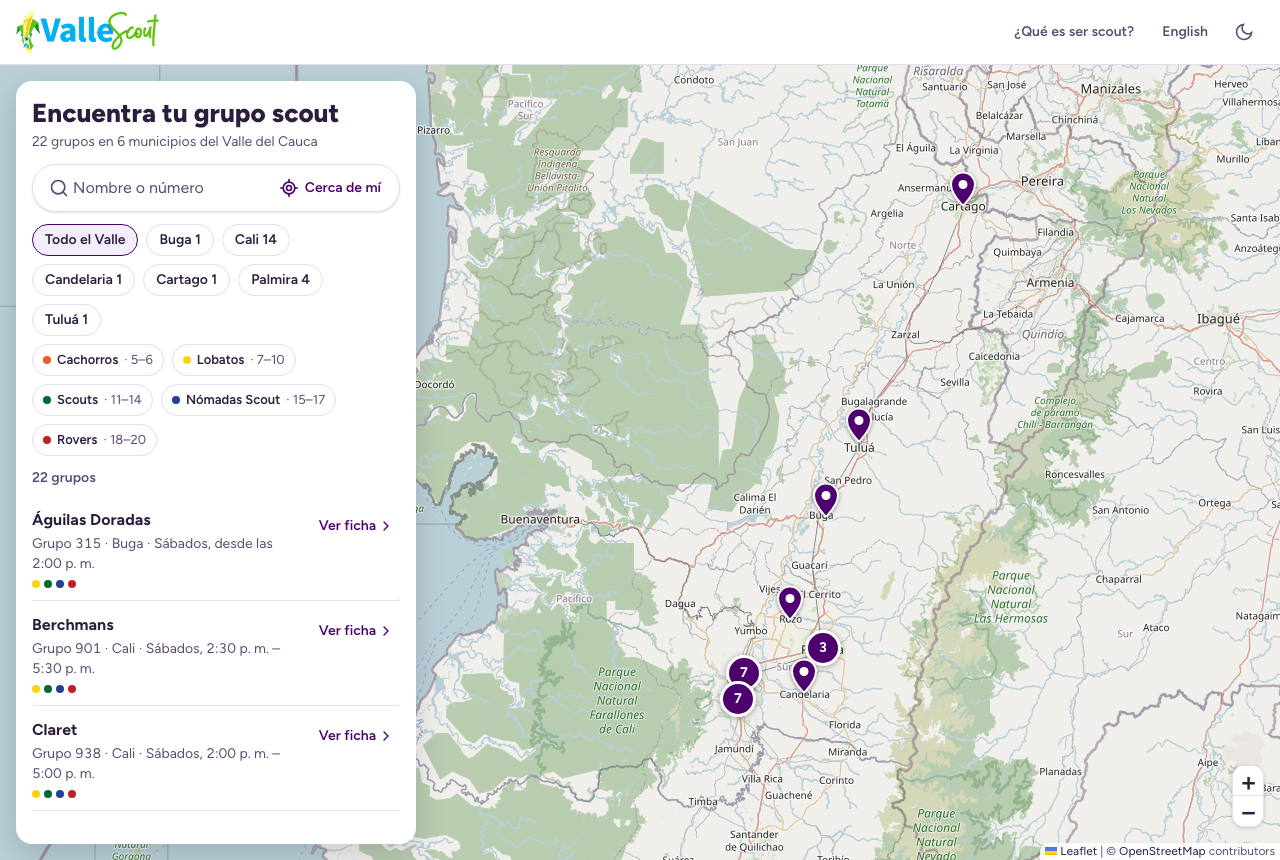
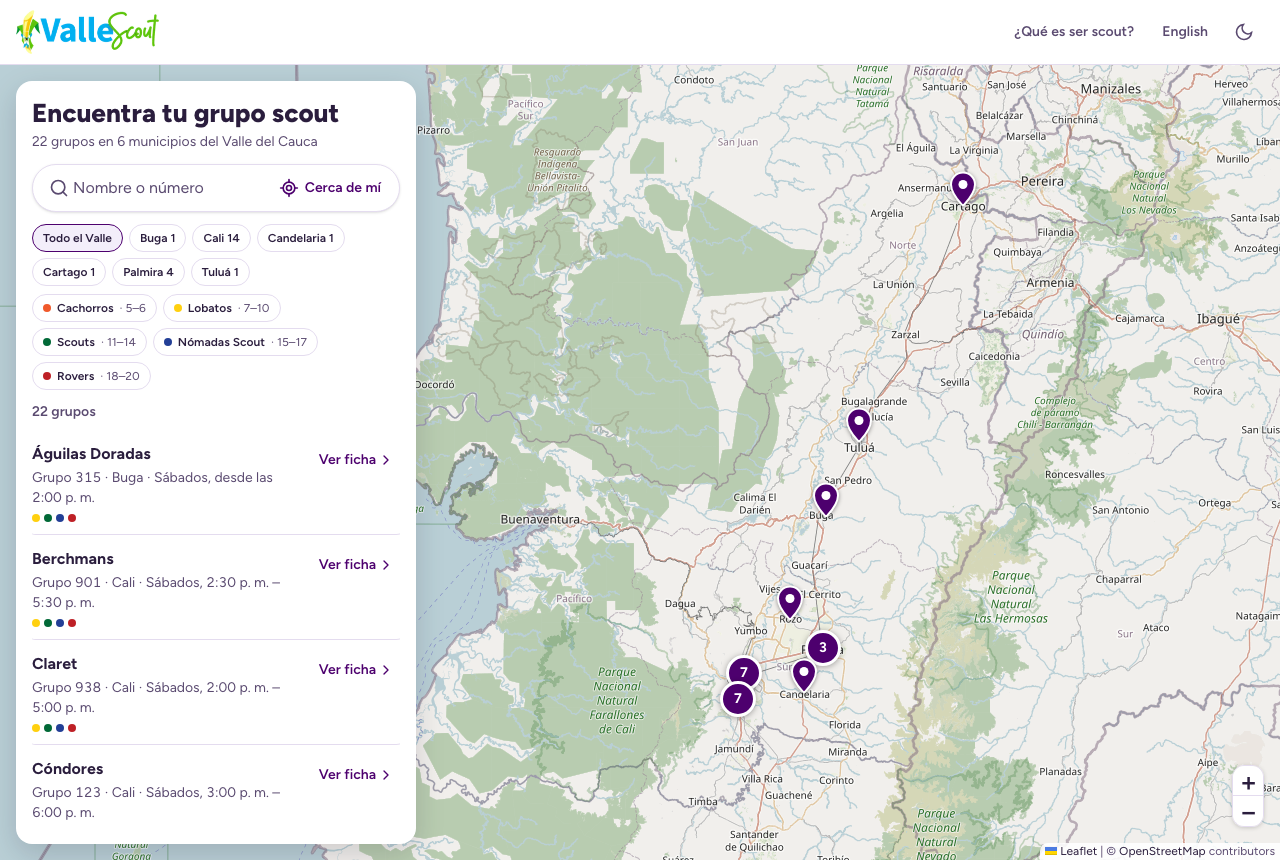
fix(finder): compact desktop chips, open selection at half height; retake screenshots

diff --git a/src/components/finder/FilterChips.tsx b/src/components/finder/FilterChips.tsx
@@ -19,7 +19,7 @@ interface Props {
 }
 
 const chip =
-  "inline-flex h-8 shrink-0 items-center gap-1.5 rounded-full border border-line bg-surface px-3 text-sm font-semibold whitespace-nowrap hover:border-brand/60 aria-pressed:border-brand aria-pressed:bg-brand-soft";
+  "inline-flex h-8 shrink-0 items-center gap-1.5 rounded-full lg:h-7 lg:px-2.5 lg:text-xs border border-line bg-surface px-3 text-sm font-semibold whitespace-nowrap hover:border-brand/60 aria-pressed:border-brand aria-pressed:bg-brand-soft";
 
 export default function FilterChips({ lang, t, filters, municipios, onChange }: Props) {
   const toggleRama = (id: RamaId) =>
@@ -34,7 +34,7 @@ export default function FilterChips({ lang, t, filters, municipios, onChange }: 
     <div class="grid gap-2" aria-label={t("finder.filters")} role="group">
       {/* Municipio: selección única; la fila hace scroll horizontal si no cabe. */}
       <div
-        class="-mx-4 -my-1.5 flex gap-2 overflow-x-auto px-4 py-1.5 [scrollbar-width:none] lg:mx-0 lg:flex-wrap lg:overflow-visible lg:px-0"
+        class="-mx-4 -my-1.5 flex gap-2 lg:gap-1.5 overflow-x-auto px-4 py-1.5 [scrollbar-width:none] lg:mx-0 lg:flex-wrap lg:overflow-visible lg:px-0"
         role="group"
         aria-label={t("finder.municipio")}
       >
@@ -62,7 +62,7 @@ export default function FilterChips({ lang, t, filters, municipios, onChange }: 
       </div>
       {/* Ramas: multiselección; el color oficial va solo en el punto. */}
       <div
-        class="-mx-4 -my-1.5 flex gap-2 overflow-x-auto px-4 py-1.5 [scrollbar-width:none] lg:mx-0 lg:flex-wrap lg:overflow-visible lg:px-0"
+        class="-mx-4 -my-1.5 flex gap-2 lg:gap-1.5 overflow-x-auto px-4 py-1.5 [scrollbar-width:none] lg:mx-0 lg:flex-wrap lg:overflow-visible lg:px-0"
         role="group"
         aria-label={t("finder.ramas")}
       >
@@ -76,7 +76,7 @@ export default function FilterChips({ lang, t, filters, municipios, onChange }: 
               data-rama={id}
               aria-pressed={pressed}
               onClick={() => toggleRama(id)}
-              class="rama-chip h-8 shrink-0 whitespace-nowrap hover:border-brand/60 aria-pressed:border-brand aria-pressed:bg-brand-soft"
+              class="rama-chip h-8 shrink-0 lg:h-7 lg:px-2.5 lg:text-xs whitespace-nowrap hover:border-brand/60 aria-pressed:border-brand aria-pressed:bg-brand-soft"
             >
               {pressed && <Icon name="check" class="-mx-0.5 size-4 text-brand" />}
               {ramaLabel(id, lang)}

diff --git a/src/components/finder/GroupMap.tsx b/src/components/finder/GroupMap.tsx
@@ -36,6 +36,8 @@ interface Props {
   lang: Lang;
   t: Translate;
   fitPadding: FitPadding;
+  /** Móvil: alto de relleno inferior con la tarjeta abierta (hoja a media altura); sustituye al de fitPadding al enfocar. */
+  focusBottomPad?: number;
   /** Escritorio: popups de Leaflet. Móvil: la ficha se muestra en la hoja (sin popups). */
   popups: boolean;
   focusRequest: FocusRequest | null;
@@ -53,6 +55,7 @@ export default function GroupMap({
   lang,
   t,
   fitPadding,
+  focusBottomPad,
   popups,
   focusRequest,
   onSelect,
@@ -77,6 +80,8 @@ export default function GroupMap({
   onPopupCloseRef.current = onPopupClose;
   const fitPaddingRef = useRef(fitPadding);
   fitPaddingRef.current = fitPadding;
+  const focusBottomPadRef = useRef(focusBottomPad);
+  focusBottomPadRef.current = focusBottomPad;
   const [ready, setReady] = useState(false);
   const [failed, setFailed] = useState(false);
   const [tilesFailed, setTilesFailed] = useState(false);
@@ -256,7 +261,9 @@ export default function GroupMap({
     group.zoomToShowLayer(marker, () => {
       const zoom = Math.max(m.getZoom(), 15);
       // Sin popup, el centro baja medio padding inferior para que el pin quede sobre la hoja.
-      const off = Math.round(fitPaddingRef.current.bottomRight[1] / 2);
+      const off = Math.round(
+        (focusBottomPadRef.current ?? fitPaddingRef.current.bottomRight[1]) / 2,
+      );
       const target = popups
         ? marker.getLatLng()
         : m.unproject(m.project(marker.getLatLng(), zoom).add([0, off]), zoom);

diff --git a/src/components/finder/Finder.tsx b/src/components/finder/Finder.tsx
@@ -6,7 +6,7 @@ import SelectedCard from "@/components/finder/SelectedCard";
 import Sheet, { type Snap } from "@/components/finder/Sheet";
 import GroupMap, { type FitPadding, type FocusRequest } from "@/components/finder/GroupMap";
 import SearchBar, { type GeoStatus } from "@/components/finder/SearchBar";
-import { SNAP_OFFSET } from "@/components/finder/useSheet";
+import { HALF, PEEK, SNAP_OFFSET } from "@/components/finder/useSheet";
 import { useMediaQuery } from "@/components/finder/useMediaQuery";
 import { VALLE_BOUNDS } from "@/data/region";
 import type { Grupo } from "@/data/schema";
@@ -67,7 +67,7 @@ export default function Finder({ grupos, lang, municipios }: Props) {
     if (!isDesktop) {
       focusedId.current = id;
       setSelectedId(id);
-      setSnap("peek");
+      setSnap("half");
     }
   };
 
@@ -78,7 +78,7 @@ export default function Finder({ grupos, lang, municipios }: Props) {
       // Sin popup que lo retenga, el resaltado se conserva aunque la tarjeta pierda hover/foco.
       focusedId.current = id;
       setSelectedId(id);
-      setSnap("peek");
+      setSnap("half");
     }
     setFocusRequest((prev) => ({ id, nonce: (prev?.nonce ?? 0) + 1 }));
   };
@@ -223,6 +223,7 @@ export default function Finder({ grupos, lang, municipios }: Props) {
           lang={lang}
           t={t}
           fitPadding={fitPadding}
+          focusBottomPad={Math.round((peekPx / PEEK) * HALF) + 16}
           popups={isDesktop}
           focusRequest={focusRequest}
           onSelect={selectFromMap}

diff --git a/tests/e2e/map.spec.ts b/tests/e2e/map.spec.ts
@@ -207,7 +207,7 @@ test.describe("mapa del buscador", () => {
       "href",
       "/grupos/315-aguilas-doradas/",
     );
-    await expect(ui(page)).toHaveAttribute("data-snap", "peek");
+    await expect(ui(page)).toHaveAttribute("data-snap", "half");
     await expect(card.getByRole("link", { name: "Ver ficha" })).toBeInViewport();
     await expect(page).not.toHaveURL(/\/grupos\//);
     await ui(page).getByRole("button", { name: "Volver a la lista" }).click();

diff --git a/docs/superpowers/specs/2026-10-07-mapa-pantalla-completa-design.md b/docs/superpowers/specs/2026-10-07-mapa-pantalla-completa-design.md
@@ -90,8 +90,8 @@ Cambios de datos, nuevas páginas, analítica, y rediseño profundo de "¿Qué e
   - La hoja es `role="region"` con `aria-label` "Resultados". El contenido existe en el DOM en todas las posiciones.
   - Con `prefers-reduced-motion`, no hay animación de arrastre: salta a la posición.
 - **Búsqueda:** píldora flotante arriba del mapa (margen 12 px) con la lupa y el botón "Cerca de mí" (solo icono, con `aria-label`). Al enfocar el campo, la hoja sube a **completa** para ver los resultados mientras se escribe; al limpiar y desenfocar vuelve a **media**.
-- **Tocar un pin:** la hoja pasa a **asomada** y muestra, en lugar de la lista, la **tarjeta del grupo** (el mismo contenido del popup, con una X para volver a la lista). El mapa centra ese pin. No se usan popups de Leaflet en móvil.
-- **Tocar un resultado:** igual que tocar su pin.
+- **Tocar un pin:** la hoja pasa a **media** y muestra, en lugar de la lista, la **tarjeta del grupo** (el mismo contenido del popup, con una X para volver a la lista). El mapa centra ese pin. No se usan popups de Leaflet en móvil.
+- **Tocar un resultado:** igual que tocar su pin. (La hoja sube a media altura y no a asomada porque la tarjeta, con su botón "Ver ficha", no cabe en el 30 %.)
 - Desaparecen el botón flotante "Ver mapa / Ver lista" y la vista por pestañas.
 - El `body` no hace scroll en la portada; solo la lista dentro de la hoja.
 
